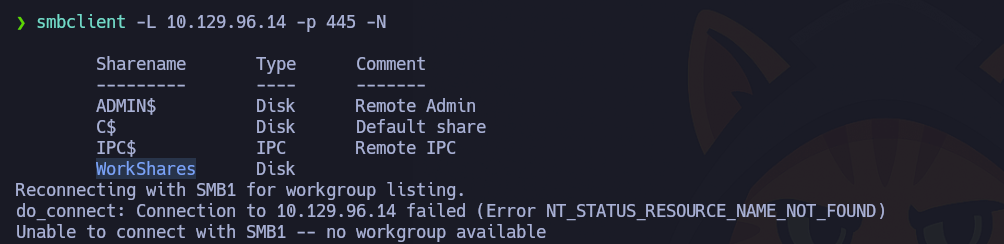
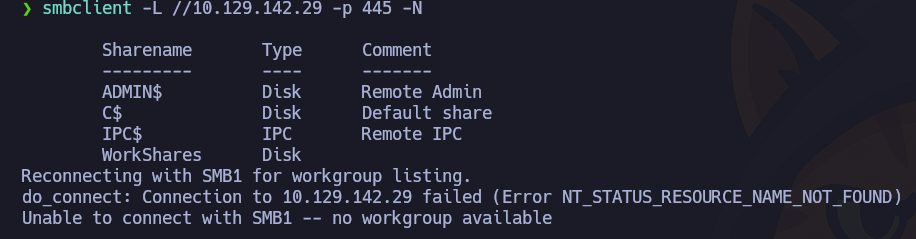
Ajustes fuera de directo 24/7

Changed region(s): [[0.0, 0.1757, 1.0, 0.9958], [0.0, 0.0, 0.4585, 0.1172]]

diff --git a/HTB/Laboratorios HTB.md b/HTB/Laboratorios HTB.md
@@ -17,33 +17,30 @@
 | 14     | [[Appointment]]                                        | VeryEasy   | Linux             | [Link](https://www.youtube.com/watch?v=DVXwE5LHL00)                                                                                                                                                                                                                               |                                                           |
 | 15     | [[Sequel]]                                             | VeryEasy   | Linux             | [Link](https://www.youtube.com/watch?v=MMbqrFr9iig)                                                                                                                                                                                                                               |                                                           |
 | 16     | [[Crocodile]]                                          | VeryEasy   | Linux             | [Link](https://www.youtube.com/watch?v=tiEFT4doIOQ)                                                                                                                                                                                                                               |                                                           |
-| 17     | [[HTB/SuperFacil/Tier 1/Windows/Responder\|Responder]] | VeryEasy   | Linux             | [Parte1](https://www.youtube.com/watch?v=d2KrxshMxZM)\|[Parte2](https://www.youtube.com/watch?v=4PFHU1TZ0as)\|[Parte3](https://www.youtube.com/watch?v=SMN3gsjAZSA)                                                                                                               |                                                           |
+| 17     | [[HTB/SuperFacil/Tier 1/Windows/Responder\|Responder]] | VeryEasy   | Windows           | [Parte1](https://www.youtube.com/watch?v=d2KrxshMxZM)\|[Parte2](https://www.youtube.com/watch?v=4PFHU1TZ0as)\|[Parte3](https://www.youtube.com/watch?v=SMN3gsjAZSA)                                                                                                               |                                                           |
 | 18     | [[Three]]                                              | VeryEasy   | Linux             | [Parte1](https://www.youtube.com/watch?v=jVak5k46ODM)\|[Parte2](https://www.youtube.com/watch?v=k6nprw1Ol_w)                                                                                                                                                                      |                                                           |
 | 19     | [[Ignition]]                                           | VeryEasy   | Linux             | [Link](https://www.youtube.com/watch?v=qReqqSTN_UU)                                                                                                                                                                                                                               |                                                           |
 | 20     | [[Bike]]                                               | VeryEasy   | Linux             | [Parte1](https://www.youtube.com/watch?v=q5oWw54r5pY)\|[Parte2](https://www.youtube.com/watch?v=vJJ28Wl9qSw)                                                                                                                                                                      |                                                           |
-|        |                                                        |            |                   |                                                                                                                                                                                                                                                                                   |                                                           |
-|        |                                                        |            |                   |                                                                                                                                                                                                                                                                                   |                                                           |
-|        |                                                        |            |                   |                                                                                                                                                                                                                                                                                   |                                                           |
-|        |                                                        |            |                   |                                                                                                                                                                                                                                                                                   |                                                           |
-|        |                                                        |            |                   |                                                                                                                                                                                                                                                                                   |                                                           |
-|        |                                                        |            |                   |                                                                                                                                                                                                                                                                                   |                                                           |
-|        |                                                        |            |                   |                                                                                                                                                                                                                                                                                   |                                                           |
-|        |                                                        |            |                   |                                                                                                                                                                                                                                                                                   |                                                           |
-|        |                                                        |            |                   |                                                                                                                                                                                                                                                                                   |                                                           |
-|        |                                                        |            |                   |                                                                                                                                                                                                                                                                                   |                                                           |
-|        |                                                        |            |                   |                                                                                                                                                                                                                                                                                   |                                                           |
-|        |                                                        |            |                   |                                                                                                                                                                                                                                                                                   |                                                           |
-|        |                                                        |            |                   |                                                                                                                                                                                                                                                                                   |                                                           |
-|        |                                                        |            |                   |                                                                                                                                                                                                                                                                                   |                                                           |
-|        |                                                        |            |                   |                                                                                                                                                                                                                                                                                   |                                                           |
-|        |                                                        |            |                   |                                                                                                                                                                                                                                                                                   |                                                           |
-|        |                                                        |            |                   |                                                                                                                                                                                                                                                                                   |                                                           |
-|        |                                                        |            |                   |                                                                                                                                                                                                                                                                                   |                                                           |
-|        |                                                        |            |                   |                                                                                                                                                                                                                                                                                   |                                                           |
+| 21     | [[Funnel]]                                             | VeryEasy   | Linux             | [Link](https://www.youtube.com/watch?v=VzS3cpyRyuc)                                                                                                                                                                                                                               |                                                           |
+| 22     | [[Pennyworth]]                                         | VeryEasy   | Linux             | [Link](https://www.youtube.com/watch?v=vC5kp8ODqls)                                                                                                                                                                                                                               |                                                           |
+| 23     | [[Tactics]]                                            | VeryEasy   | Windows           | [Link](https://www.youtube.com/watch?v=6jHO8sHxz2E)                                                                                                                                                                                                                               |                                                           |
+| 24     | [[Archetype]]                                          | VeryEasy   | Windows           | [Parte1](https://www.youtube.com/watch?v=Xz5oX2bH5VM)\|[Parte2](https://www.youtube.com/watch?v=562uiR37VvA)                                                                                                                                                                      |                                                           |
+| 25     | [[Oopsie]]                                             | VeryEasy   | Linux             | [Parte1](https://www.youtube.com/watch?v=v_C-8KYn1Mg)\|[Parte2](https://www.youtube.com/watch?v=4YjfnwjVEIw)\|[Parte3](https://www.youtube.com/watch?v=8iGtyAi9Ouw)                                                                                                               |                                                           |
+| 26     | [[Vaccine]]                                            | VeryEasy   | Linux             | [Parte1](https://www.youtube.com/watch?v=lFJHQi1Ih30)\|[Parte2](https://www.youtube.com/watch?v=AgI24N6KmjQ)                                                                                                                                                                      |                                                           |
+| 27     | [[Unified]]                                            | VeryEasy   | Linux             | [Parte1](https://www.youtube.com/watch?v=KFEsWyExifo)\|[Parte2](https://www.youtube.com/watch?v=6t717LDxTC8)\|[Parte3](https://www.youtube.com/watch?v=EMSUnKxBaDQ)                                                                                                               |                                                           |
+| 28     | [[Included]]                                           | VeryEasy   | Linux             | [Parte1](https://www.youtube.com/watch?v=QSMmb3mHKuc)\|[Parte2](https://www.youtube.com/watch?v=QHaFBlSVNgs)\|[Parte3](https://www.youtube.com/watch?v=7Bh1whd4nec)                                                                                                               |                                                           |
+| 29     | [[Markup]]                                             | VeryEasy   | Windows           | [Parte1](https://www.youtube.com/watch?v=oD-2evQL1Sc)\|[Parte2](https://www.youtube.com/watch?v=MlHmHTjw62I)                                                                                                                                                                      |                                                           |
+| 30     | [[Base]]                                               | VeryEasy   | Linux             | [Link](https://www.youtube.com/watch?v=Trejh7Fih34)                                                                                                                                                                                                                               |                                                           |
+| 31     | [[Legacy]]                                             | Easy       | Windows           | [Link](https://www.youtube.com/watch?v=hVlDTy1nuzQ)                                                                                                                                                                                                                               |                                                           |
+| 32     | [[Lame]]                                               | Easy       | Linux             | [Link](https://www.youtube.com/watch?v=RiQEZlUoKvk)                                                                                                                                                                                                                               |                                                           |
+| 33     | [[Jerry]]                                              | Easy       | Windows           | [Link](https://www.youtube.com/watch?v=NfEMX7-BFTo)                                                                                                                                                                                                                               |                                                           |
+| 34     | [[Cap]]                                                | Easy       | Linux             | [Link](https://www.youtube.com/watch?v=P1YcpcOuPRE)                                                                                                                                                                                                                               |                                                           |
+| 35     | [[Netmon]]                                             | Easy       | Windows           | [Link](https://www.youtube.com/watch?v=IcYa_yilycs)                                                                                                                                                                                                                               |                                                           |
+| 36     | [[Knife]]                                              | Easy       | Linux             | [Link](https://www.youtube.com/watch?v=0cqa33FLho0)                                                                                                                                                                                                                               |                                                           |
 
 ------
 # Maquinas no completadas
-| Nombre                           | Dificultad | Sistema Operativo | Link de los vivo |
-| -------------------------------- | ---------- | ----------------- | ---------------- |
-| [[Help(Falta terminar maquina)]] | Easy       | Linux             |                  |
-| [[Blue (No terminada)]]          | Easy       | Linux             |                  |
+| Nombre                           | Dificultad | Sistema Operativo | Link de los vivo                                                                                             |
+| -------------------------------- | ---------- | ----------------- | ------------------------------------------------------------------------------------------------------------ |
+| [[Help(Falta terminar maquina)]] | Easy       | Linux             | [Parte1](https://www.youtube.com/watch?v=mZQeBRxe0C0)\|[Parte2](https://www.youtube.com/watch?v=hip6MNVT5hE) |
+| [[Blue (No terminada)]]          | Easy       | Linux             | [Parte1](https://www.youtube.com/watch?v=_rycwPBeG7Q)\|[Parte2](https://www.youtube.com/watch?v=6rzA9KYjFmI) |

diff --git a/HTB/SuperFacil/Tier 0/Windows/Dancing.md b/HTB/SuperFacil/Tier 0/Windows/Dancing.md
@@ -1,7 +1,7 @@
 ---
 
 ---
-#veryeasy #windows #startingpoint #smb #nmap #ping #ls 
+#veryeasy #windows #startingpoint #smb #nmap #ping #ls #cat
 
 ----
 # Guided Mode
@@ -52,8 +52,7 @@ smbclient -L 10.129.96.14 -p 445 -N
 
 Nos conectamos a la carpeta WorkShares
 ```shell
-smbclient //10.129.96.14/WorkShares -N
+smbclient //10.129.142.29/WorkShares -p 445 -N
 ```
-En la carpeta de *James.P* esta la flag
+Vemos la carpeta de *James.P* con el comando `cd james.p`, entramos y con el comando `get flag.txt` descargamos el archivo a nuestra maquina. Luego con [[cat]] vamos a usar `cat flag.txt` para ver la flag
 ![[Dancing6.png]]
-CAMBIAR ULTIMA IMAGEN DE DANCING

diff --git a/HTB/SuperFacil/Tier 0/Linux/Redeemer.md b/HTB/SuperFacil/Tier 0/Linux/Redeemer.md
@@ -1,4 +1,4 @@
-#veryeasy #startingpoint #linux #redis
+#veryeasy #startingpoint #linux #redis #nmap #ping 
 
 --------
 # Guided Mode
@@ -60,7 +60,7 @@ redis-cli -h 10.129.48.19 -p 6379
 
 Con el comando `info keyspace` vimos que base de datos estaban
 	![[Redeemer3.png]]
-Seleccionamos la base de datos 0 con el comando ``select 0``, despues visualizamos todas las keys con `keys *` y con `get flag` sacamos la flag de la maquina
+Seleccionamos la base de datos 0 con el comando ``select 0``, despues visualizamos todas las keys con `keys *` y con `get flag` visualizamos el codigo de la flag
 
 ![[Redeemer4.png]]
 
